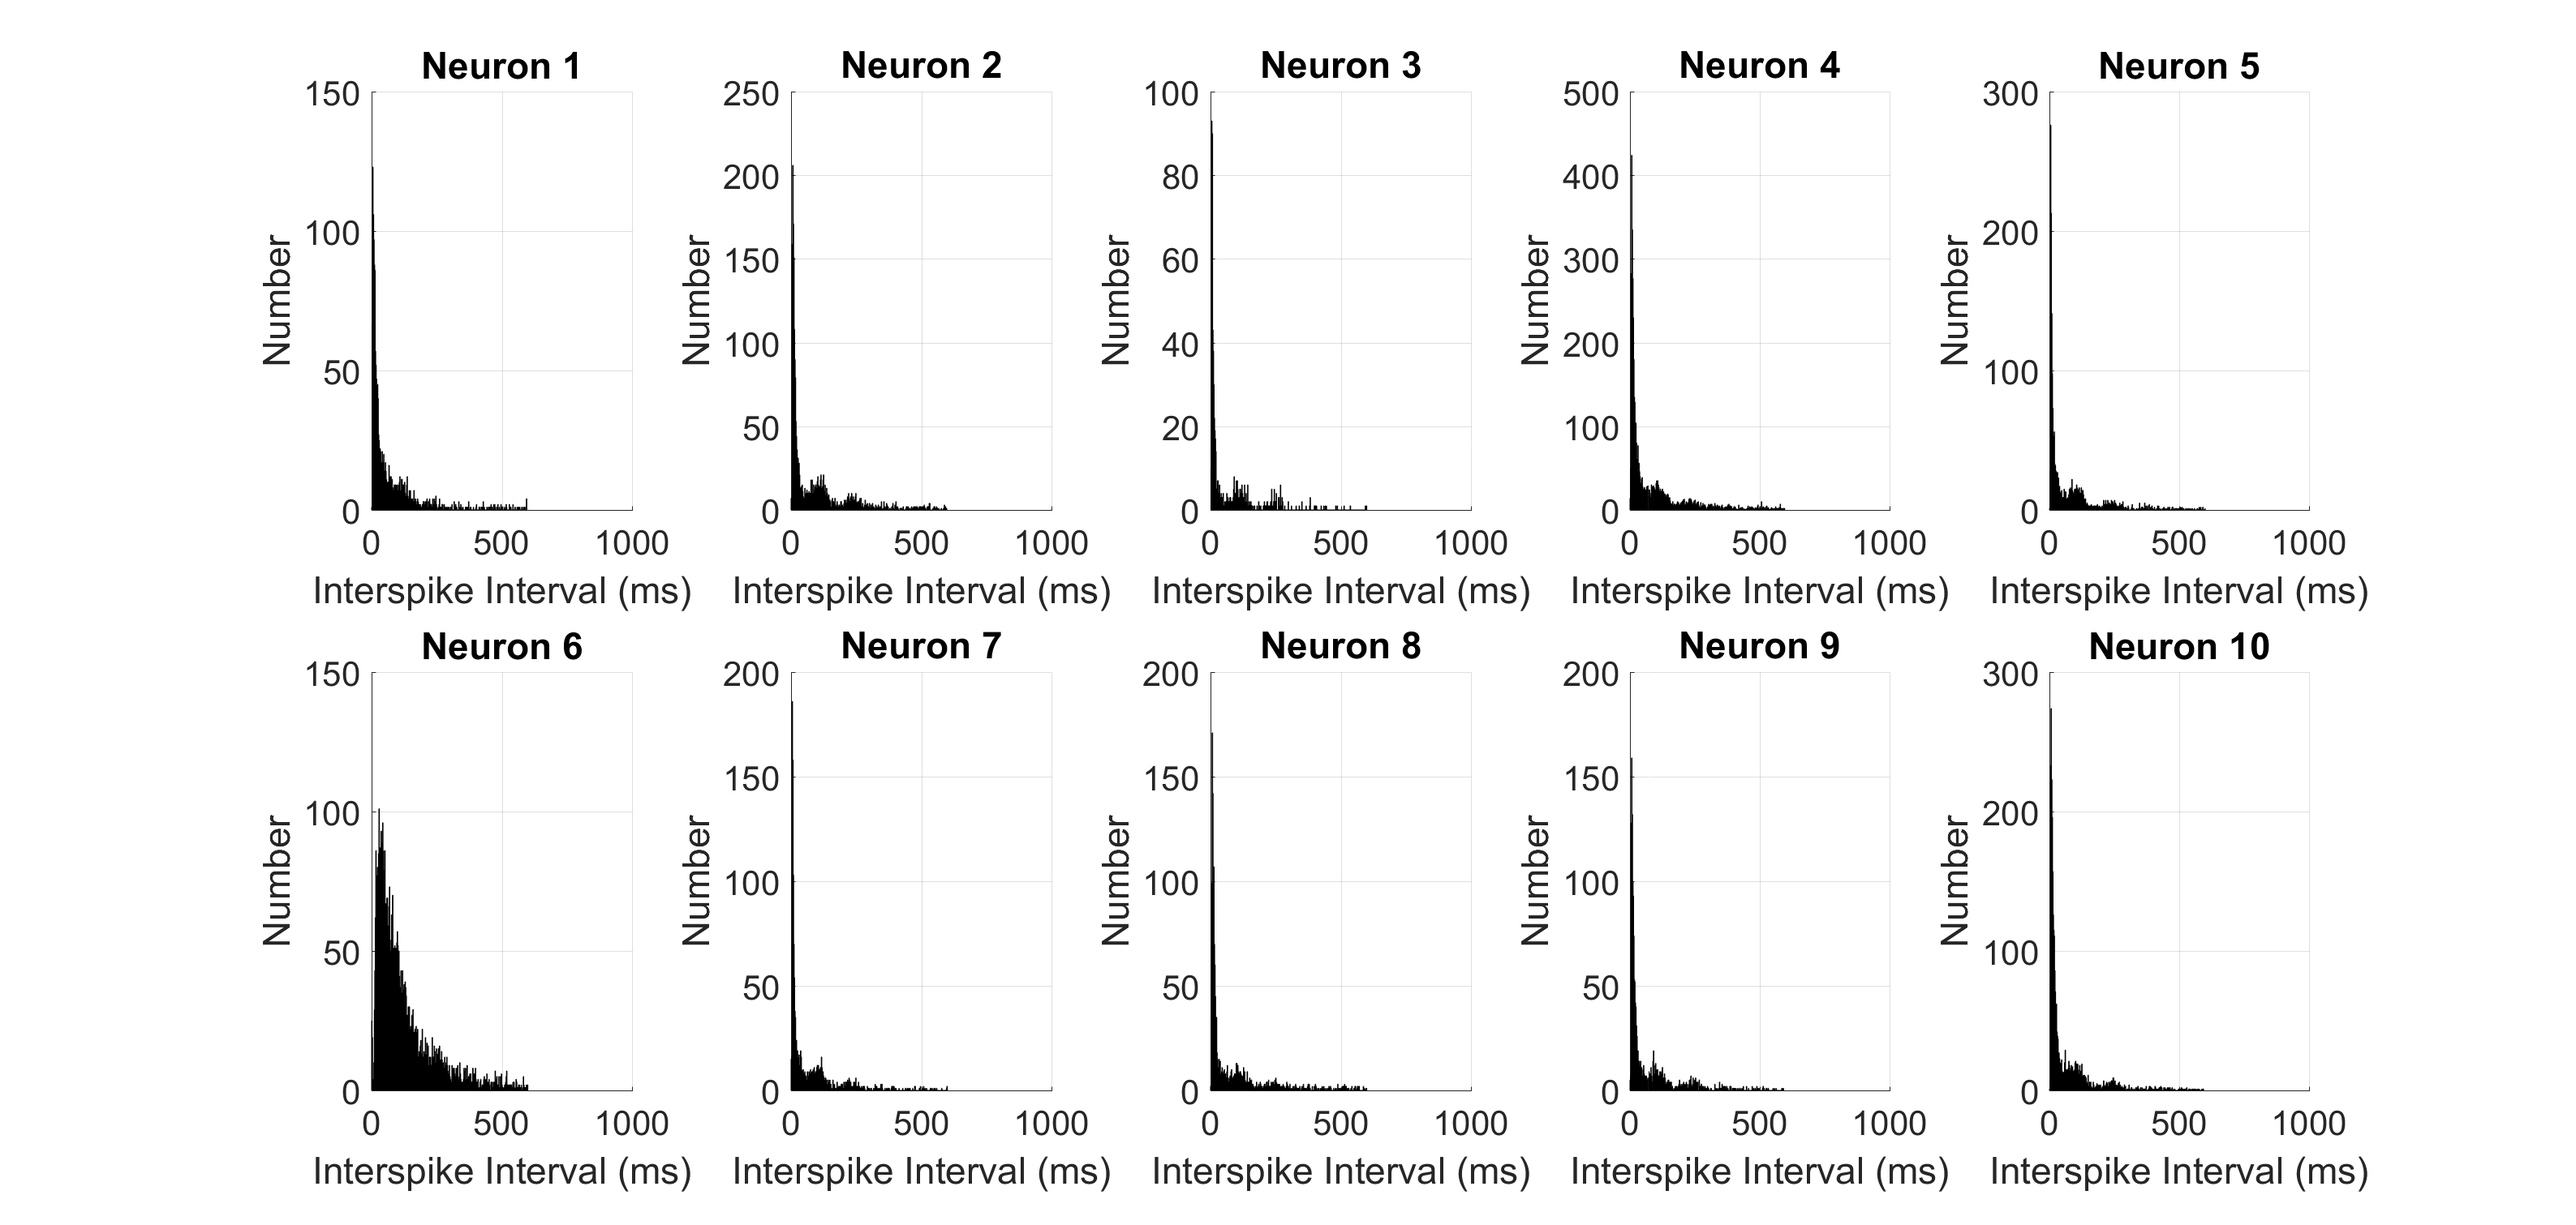
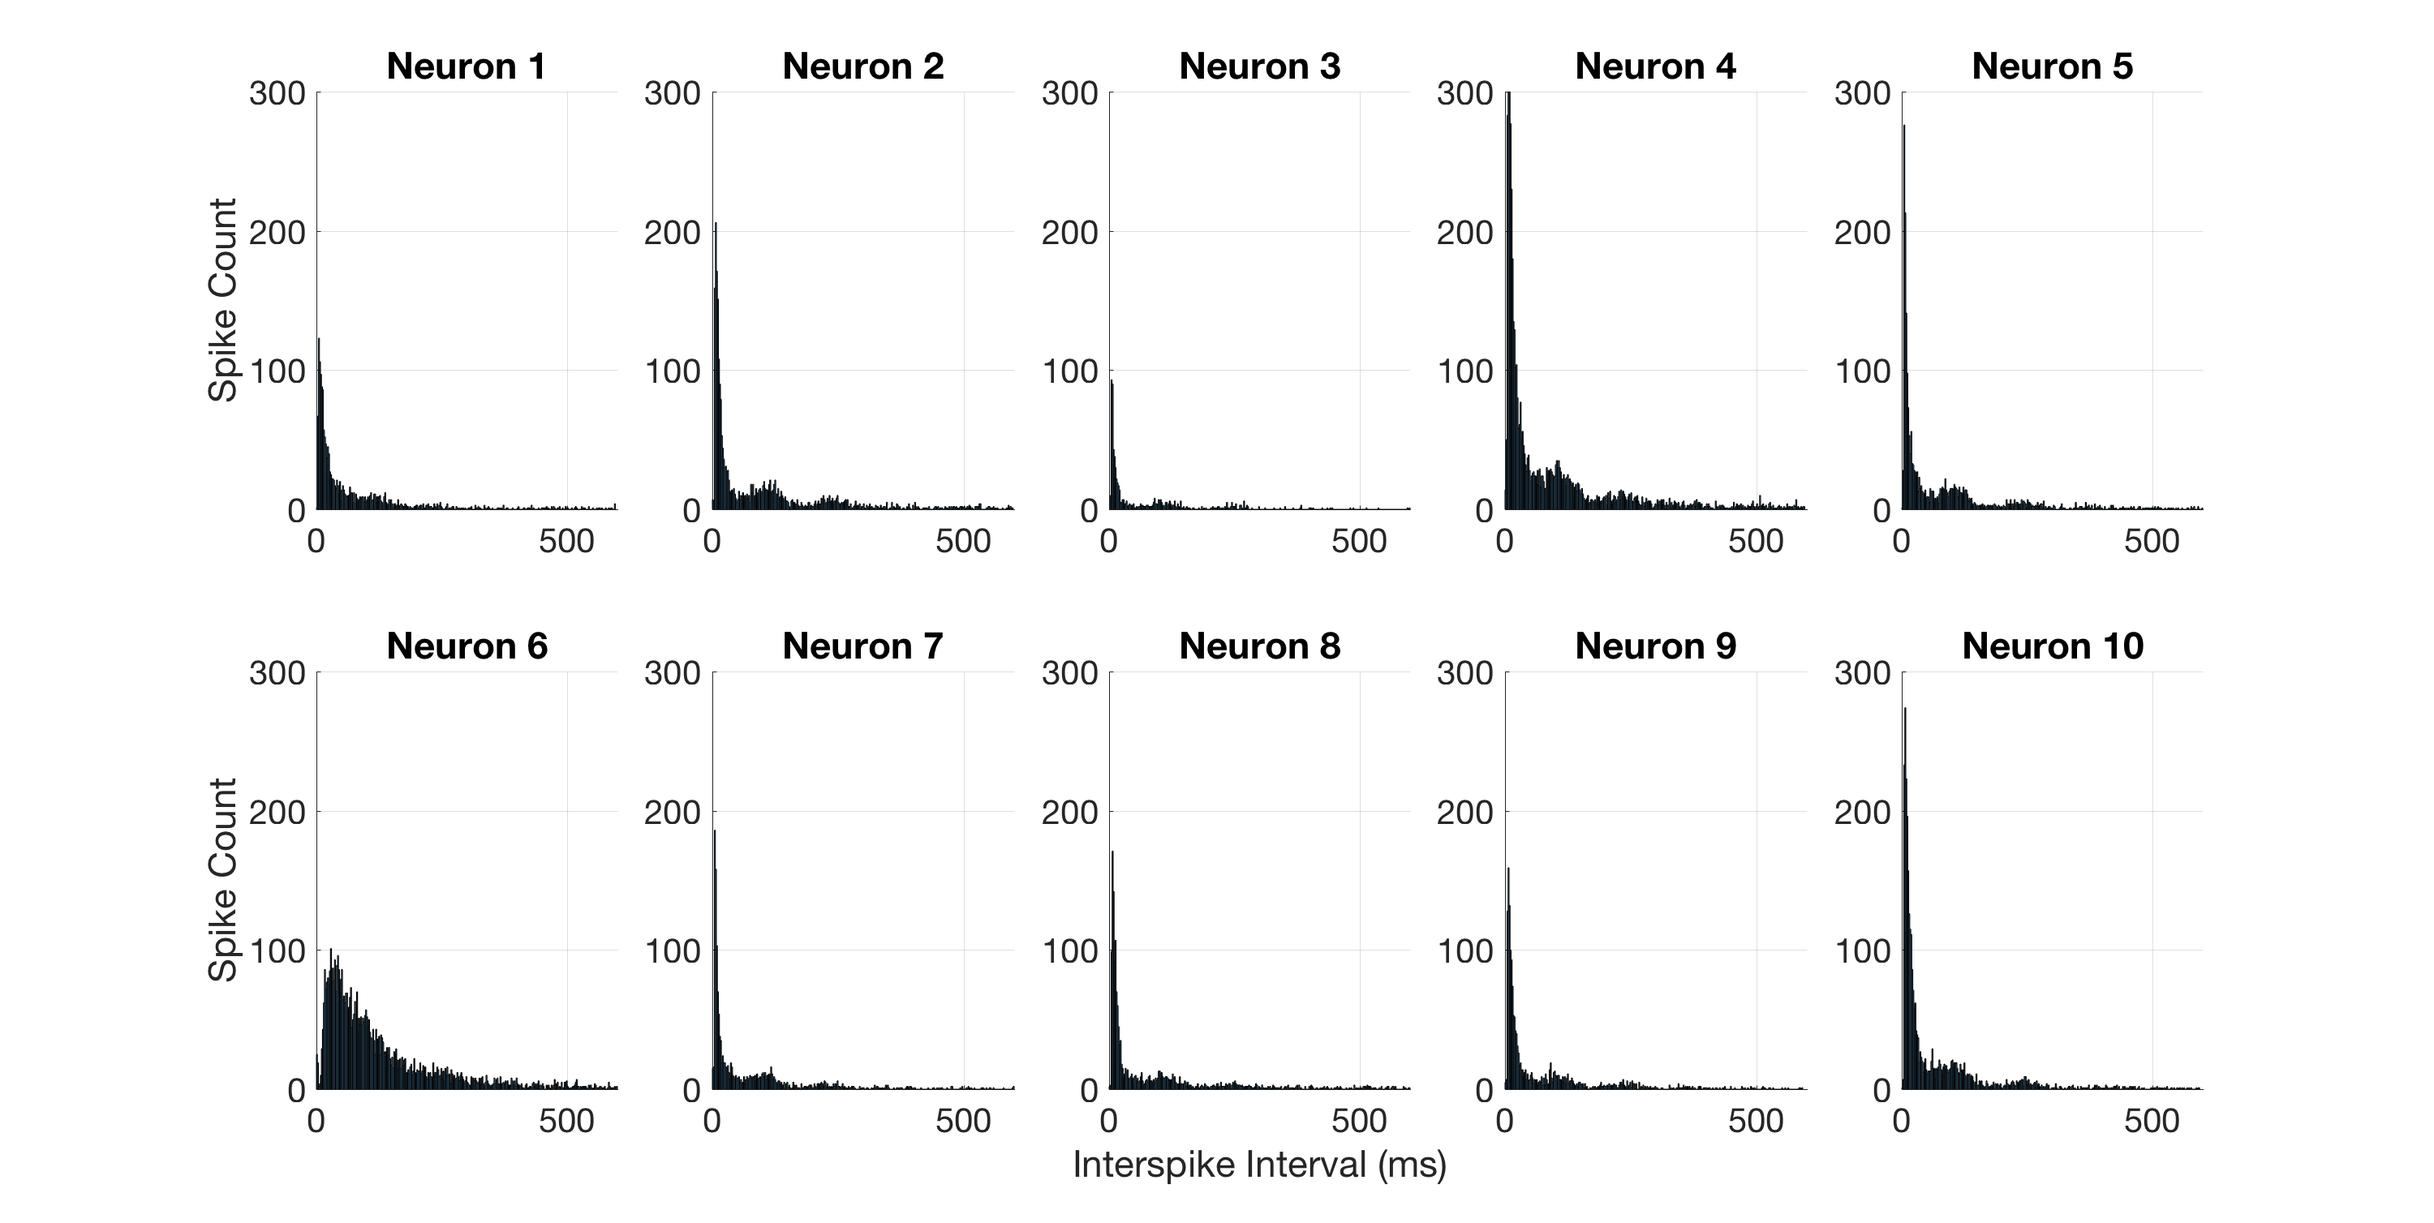
Raw data plots reformatted

diff --git a/plot_spiking_positions.m b/plot_spiking_positions.m
@@ -28,9 +28,10 @@ addOptional(p,'type',defaultType,checkType);
 
 parse(p,xN,yN,XLocAtSpikes,YLocAtSpikes,varargin{:})
 
+n = numel(XLocAtSpikes);
 if strcmp(p.Results.type,'separate')
 
-    for i=1:numel(XLocAtSpikes)
+    for i=1:n
         psp(i,xN,yN,XLocAtSpikes{i},YLocAtSpikes{i});
     end
 
@@ -38,14 +39,20 @@ elseif strcmp(p.Results.type,'subplot')
 
     figure('Name','Raw Data - Spikes and Path vs Position',...
         'units','normalized','outerposition',[0 0.035 1 0.92]); hold on;
-    for i=1:numel(XLocAtSpikes)
+    for i=1:n
         
-        subplot(numel(XLocAtSpikes)/5, 5, i); hold on;
+        subplot(n/5, 5, i); hold on;
         plot(xN,yN,XLocAtSpikes{i},YLocAtSpikes{i},'r.');
         
         % make pretty
         title(['Neuron ' num2str(i)])
-        xlabel('Normalized x position'); ylabel('Normalized y position');
+        if i==ceil(3*n/4)
+            xlabel('Normalized x position');
+        end
+        if mod(i,n/2)==1
+            ylabel('Normalized y position');
+        end
+    
         pbaspect([1 1 1]);
         set(gca,'fontsize',20)
 

diff --git a/plot_ISIs.m b/plot_ISIs.m
@@ -17,11 +17,16 @@ for i = 1:n,
     pISI = ISIs{i}(ISIs{i}<=threshold); %Throw out ISIs that are too large (for plotting only)
     subplot(2,5,i); grid on; hold on;
     histogram(pISI,'BinWidth',binwidth);
-    xlabel('Interspike Interval (ms)');
-    ylabel('Number');
+    if i==ceil(3*n/4)
+        xlabel('Interspike Interval (ms)');
+    end
+    if mod(i,n/2)==1
+        ylabel('Spike Count');
+    end
     title(['Neuron ' num2str(i)]);
     set(gca,'fontsize',20)
-
+    xlim([0 600])
+    ylim([0 300])
 end
 set(gca,'fontsize',20)
 % suptitle('Distribution of Interspike Intervals');
